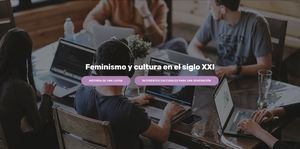
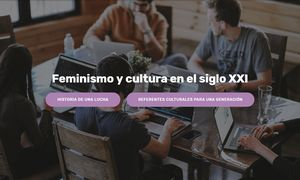
changes

diff --git a/mobirise/page6.html b/mobirise/page6.html
@@ -55,7 +55,7 @@ Yo creo que hay muchas reivindicaciones que hacer y tenemos que defenderlas el 8
 </section>
 
 
-  <section class="engine"><a href="https://mobirise.info/z">best free css templates</a></section><script src="assets/web/assets/jquery/jquery.min.js"></script>
+  <section class="engine"><a href="https://mobirise.info/g">build your own site</a></section><script src="assets/web/assets/jquery/jquery.min.js"></script>
   <script src="assets/popper/popper.min.js"></script>
   <script src="assets/tether/tether.min.js"></script>
   <script src="assets/bootstrap/js/bootstrap.min.js"></script>

diff --git a/mobirise/assets/mobirise/css/mbr-additional.css b/mobirise/assets/mobirise/css/mbr-additional.css
@@ -1389,12 +1389,6 @@ body {
   background-image: url("../../../assets/images/diapo2-1-2000x2588.jpg");
 }
 .cid-rjSfdu3Cxt {
-  background-image: url("../../../assets/images/mani-1920x1080.jpg");
-}
-.cid-rjSfdu3Cxt H1 {
-  color: #ac82b2;
-}
-.cid-rjSfdu3Cxt {
   background-image: url("../../../assets/images/mani-manada-1-2000x1500.jpg");
 }
 .cid-rjSfdu3Cxt H1 {
@@ -1732,4 +1726,10 @@ body {
     width: auto;
     margin: auto;
   }
+}
+.cid-rjSfdu3Cxt {
+  background-image: url("../../../assets/images/mani-1920x1080.jpg");
+}
+.cid-rjSfdu3Cxt H1 {
+  color: #ac82b2;
 }

diff --git a/mobirise/page1.html b/mobirise/page1.html
@@ -44,7 +44,7 @@
 </section>
 
 
-  <section class="engine"><a href="https://mobirise.info/k">develop free website</a></section><script src="assets/web/assets/jquery/jquery.min.js"></script>
+  <section class="engine"><a href="https://mobirise.info/g">build your own site for free</a></section><script src="assets/web/assets/jquery/jquery.min.js"></script>
   <script src="assets/popper/popper.min.js"></script>
   <script src="assets/tether/tether.min.js"></script>
   <script src="assets/bootstrap/js/bootstrap.min.js"></script>

diff --git a/mobirise/page3.html b/mobirise/page3.html
@@ -59,7 +59,7 @@
 </section>
 
 
-  <section class="engine"><a href="https://mobirise.info/n">simple site templates</a></section><script src="assets/web/assets/jquery/jquery.min.js"></script>
+  <section class="engine"><a href="https://mobirise.info/p">web templates free download</a></section><script src="assets/web/assets/jquery/jquery.min.js"></script>
   <script src="assets/popper/popper.min.js"></script>
   <script src="assets/tether/tether.min.js"></script>
   <script src="assets/bootstrap/js/bootstrap.min.js"></script>

diff --git a/mobirise/page9.html b/mobirise/page9.html
@@ -46,7 +46,7 @@
 </section>
 
 
-  <section class="engine"><a href="https://mobirise.info/r">free bootstrap template</a></section><script src="assets/web/assets/jquery/jquery.min.js"></script>
+  <section class="engine"><a href="https://mobirise.info/w">free html5 templates</a></section><script src="assets/web/assets/jquery/jquery.min.js"></script>
   <script src="assets/tether/tether.min.js"></script>
   <script src="assets/popper/popper.min.js"></script>
   <script src="assets/bootstrap/js/bootstrap.min.js"></script>

diff --git a/mobirise/page2.html b/mobirise/page2.html
@@ -46,7 +46,7 @@
 </section>
 
 
-  <section class="engine"><a href="https://mobirise.info/y">html web templates</a></section><script src="assets/web/assets/jquery/jquery.min.js"></script>
+  <section class="engine"><a href="https://mobirise.info/o">portfolio site templates</a></section><script src="assets/web/assets/jquery/jquery.min.js"></script>
   <script src="assets/popper/popper.min.js"></script>
   <script src="assets/tether/tether.min.js"></script>
   <script src="assets/bootstrap/js/bootstrap.min.js"></script>

diff --git a/mobirise/page7.html b/mobirise/page7.html
@@ -45,7 +45,7 @@
 </section>
 
 
-  <section class="engine"><a href="https://mobirise.info/f">simple site maker</a></section><script src="assets/web/assets/jquery/jquery.min.js"></script>
+  <section class="engine"><a href="https://mobirise.info/b">create your own website</a></section><script src="assets/web/assets/jquery/jquery.min.js"></script>
   <script src="assets/popper/popper.min.js"></script>
   <script src="assets/tether/tether.min.js"></script>
   <script src="assets/bootstrap/js/bootstrap.min.js"></script>

diff --git a/mobirise/index.html b/mobirise/index.html
@@ -44,7 +44,7 @@
 </section>
 
 
-  <section class="engine"><a href="https://mobirise.info/n">free simple web templates</a></section><script src="assets/web/assets/jquery/jquery.min.js"></script>
+  <section class="engine"><a href="https://mobirise.info/d">site maker</a></section><script src="assets/web/assets/jquery/jquery.min.js"></script>
   <script src="assets/popper/popper.min.js"></script>
   <script src="assets/tether/tether.min.js"></script>
   <script src="assets/bootstrap/js/bootstrap.min.js"></script>

diff --git a/mobirise/page4.html b/mobirise/page4.html
@@ -60,7 +60,7 @@
 </section>
 
 
-  <section class="engine"><a href="https://mobirise.info/v">html templates</a></section><script src="assets/web/assets/jquery/jquery.min.js"></script>
+  <section class="engine"><a href="https://mobirise.info">Mobirise</a></section><script src="assets/web/assets/jquery/jquery.min.js"></script>
   <script src="assets/popper/popper.min.js"></script>
   <script src="assets/tether/tether.min.js"></script>
   <script src="assets/bootstrap/js/bootstrap.min.js"></script>

diff --git a/mobirise/page8.html b/mobirise/page8.html
@@ -42,7 +42,7 @@
     </div>
 </section>
 
-<section class="engine"><a href="https://mobirise.info/o">portfolio web templates</a></section><section class="mbr-gallery mbr-slider-carousel cid-rjSIanuJz0" id="gallery1-f">
+<section class="engine"><a href="https://mobirise.info/k">develop own website</a></section><section class="mbr-gallery mbr-slider-carousel cid-rjSIanuJz0" id="gallery1-f">
 
     
 

diff --git a/mobirise/page5.html b/mobirise/page5.html
@@ -42,7 +42,7 @@
     </div>
 </section>
 
-<section class="engine"><a href="https://mobirise.info/t">amp template</a></section><section class="mbr-gallery mbr-slider-carousel cid-rjSIanuJz0" id="gallery1-f">
+<section class="engine"><a href="https://mobirise.info/s">bootstrap themes</a></section><section class="mbr-gallery mbr-slider-carousel cid-rjSIanuJz0" id="gallery1-f">
 
     
 

diff --git a/mobirise/page10.html b/mobirise/page10.html
@@ -42,7 +42,7 @@
 
 </section>
 
-<section class="engine"><a href="https://mobirise.info/w">html5 templates</a></section><section class="testimonials2 cid-rjTbdjK3f4" id="testimonials2-y">
+<section class="engine"><a href="https://mobirise.info/w">free html5 templates</a></section><section class="testimonials2 cid-rjTbdjK3f4" id="testimonials2-y">
 
     
 
